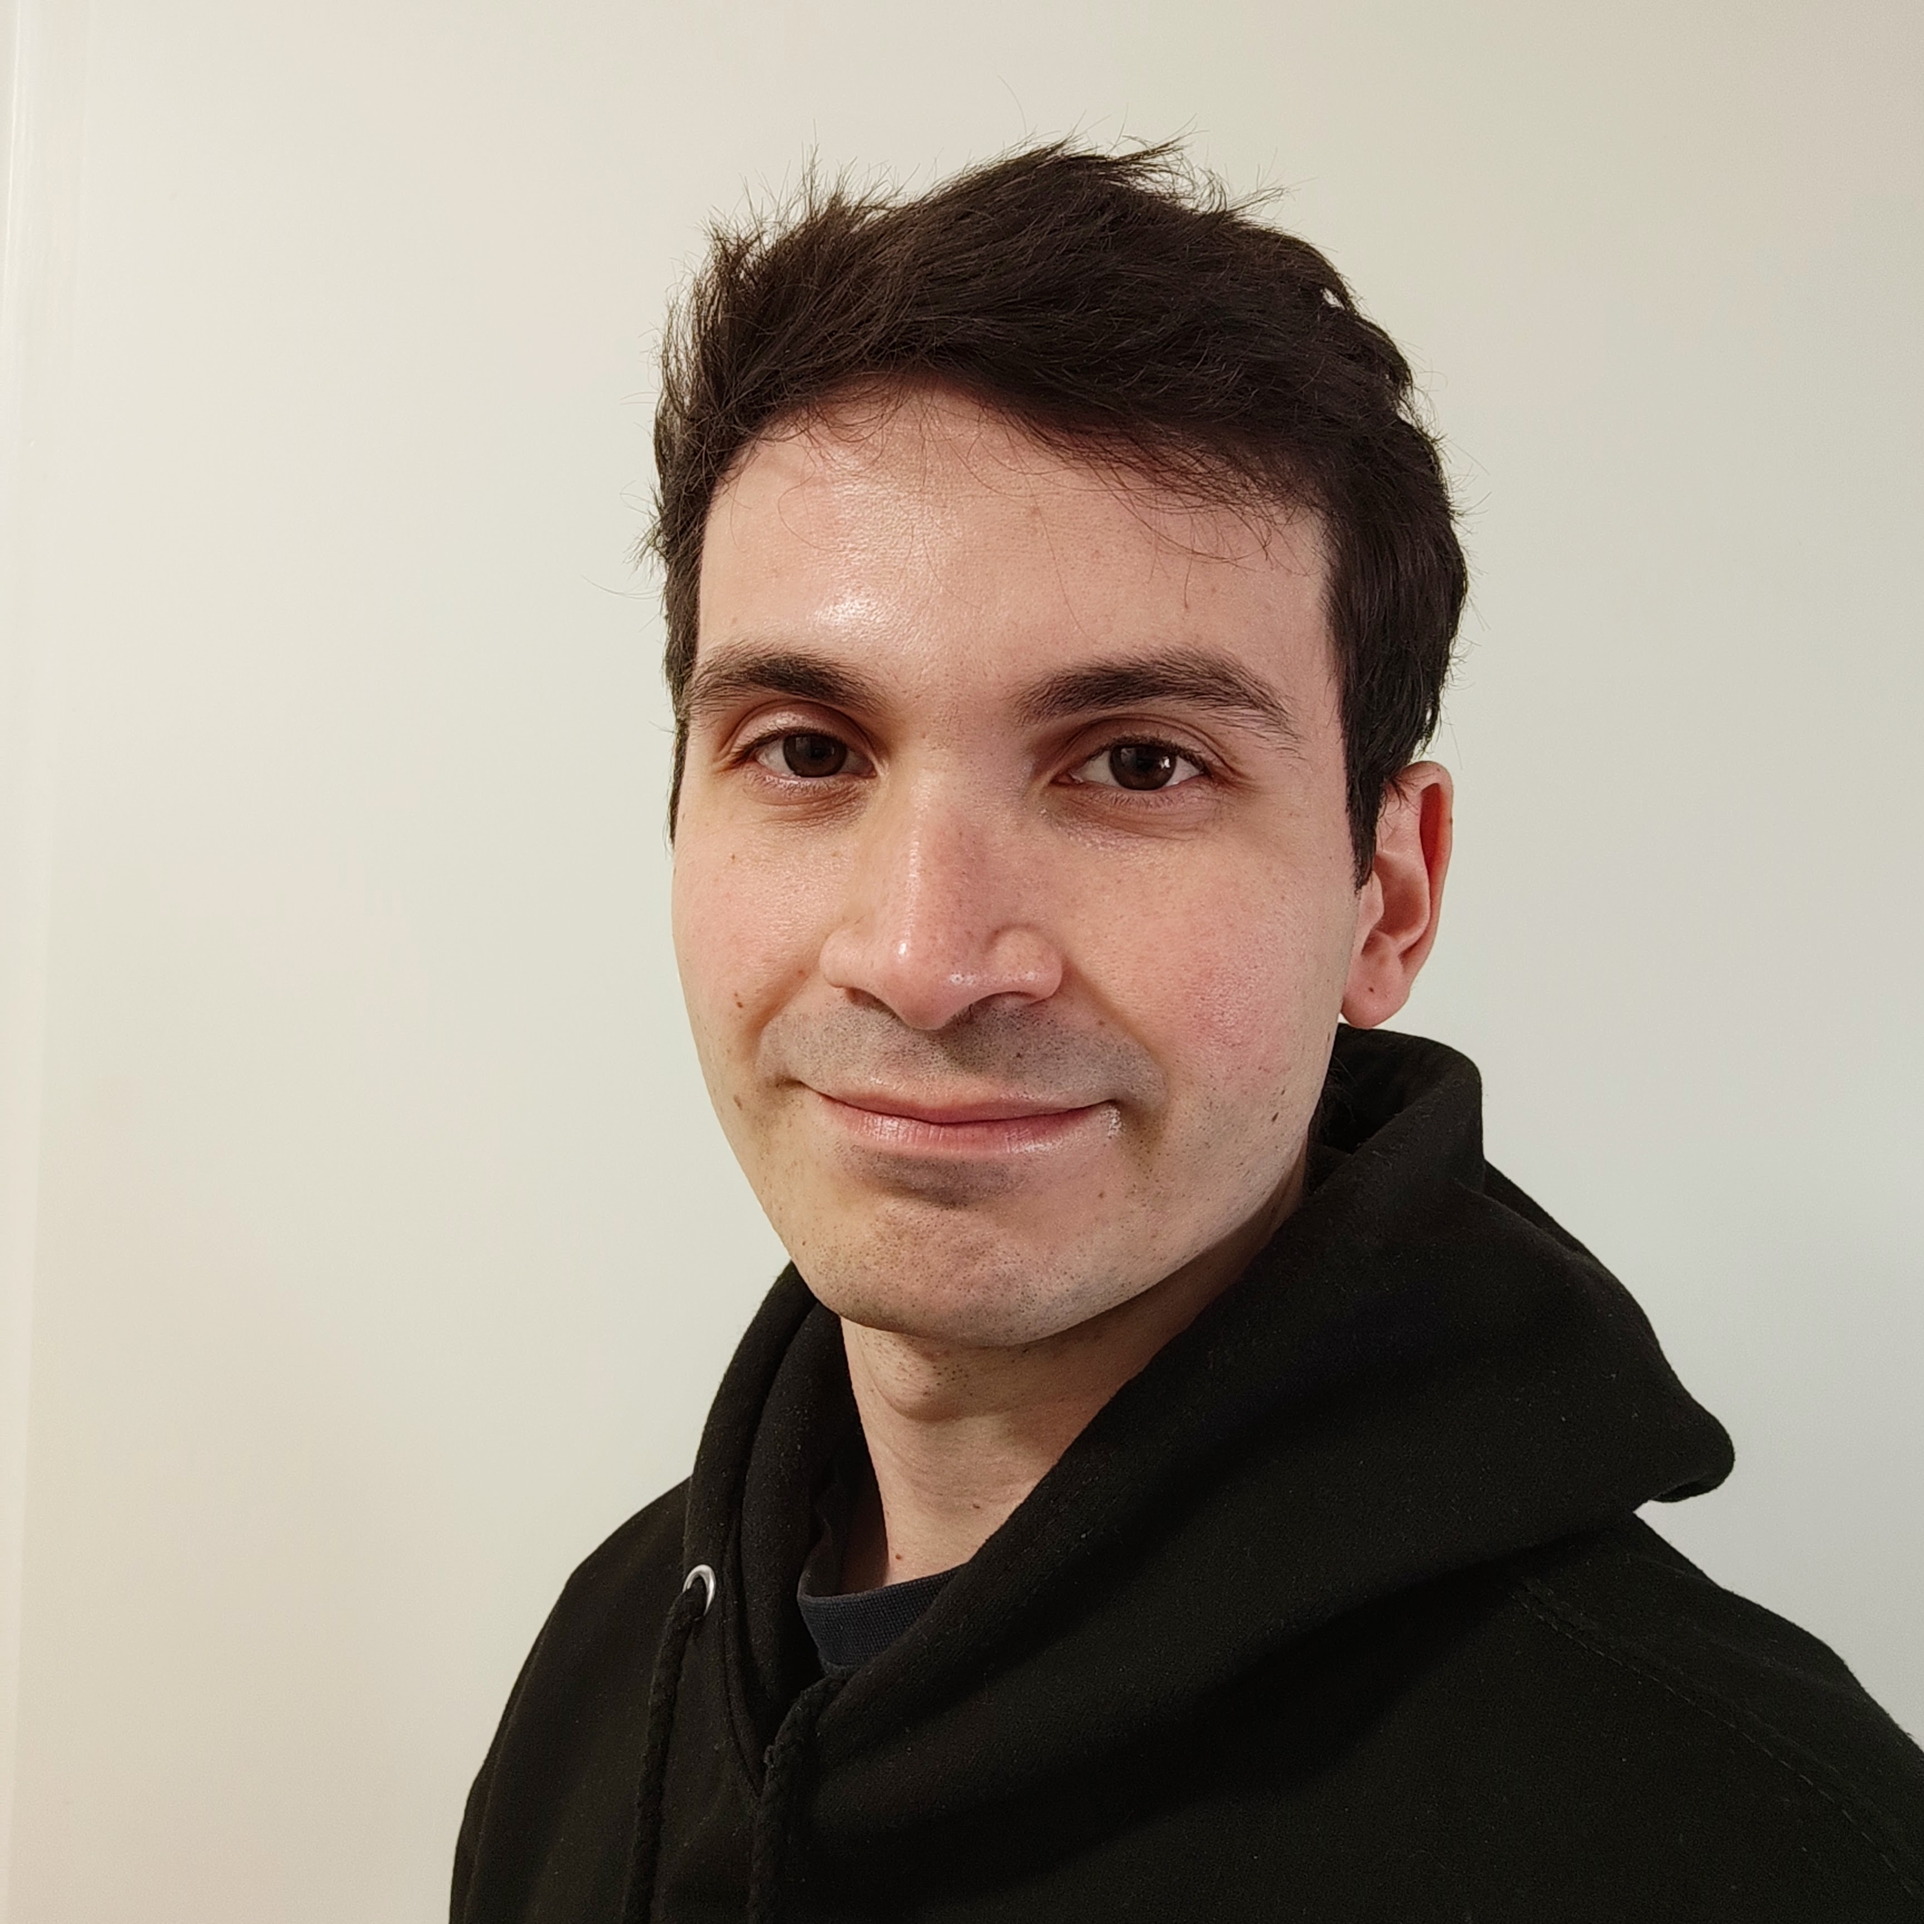
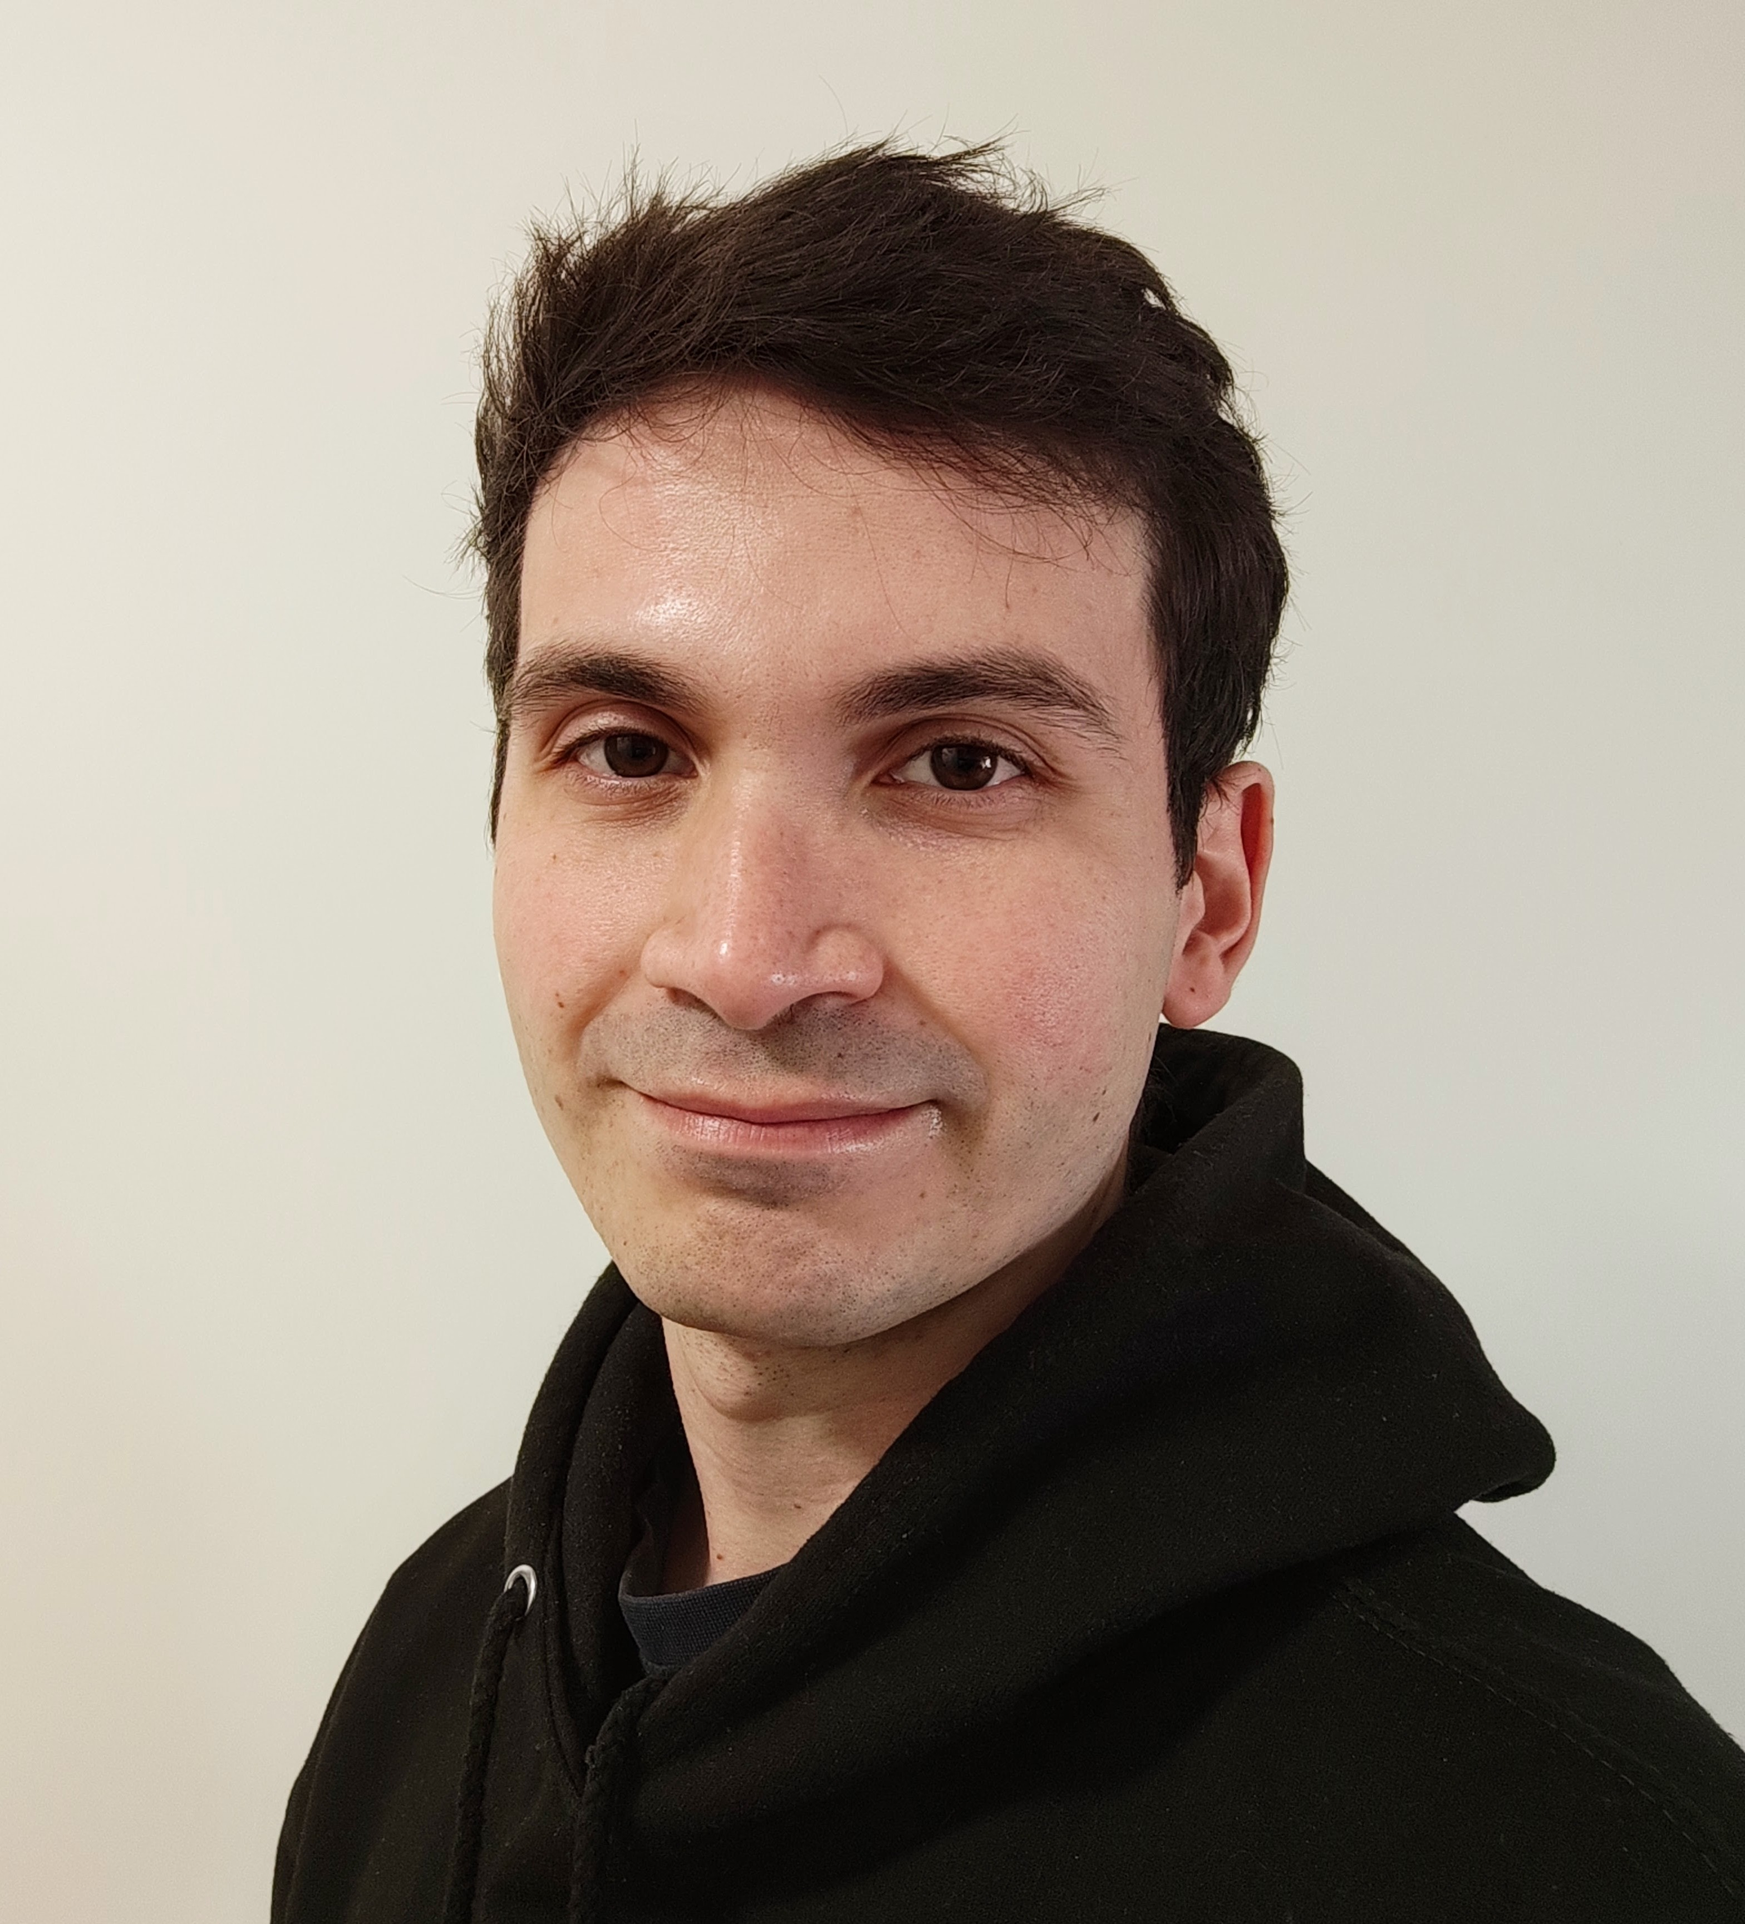
Fixing photo + Pubs tab
- Centered profile photo
- Highlighted my most important publication

diff --git a/publications.html b/publications.html
@@ -81,9 +81,14 @@
         <section id="publications" class="mb-20">
             <div class="space-y-6">
                 
-                <!-- Paper 1 -->
-                <div class="bg-white dark:bg-slate-900 p-6 rounded-xl shadow-sm border border-slate-200 dark:border-slate-800 transition hover:shadow-lg hover:border-blue-200 dark:hover:border-blue-700">
-                    <div class="flex flex-col md:flex-row justify-between md:items-start gap-4">
+                <!-- Paper 1 (Featured / Starred) -->
+                <div class="bg-white dark:bg-slate-900 p-6 rounded-xl shadow-md border-2 border-yellow-400 dark:border-yellow-600 transition hover:shadow-lg relative overflow-hidden">
+                    <!-- Star Badge -->
+                    <div class="absolute top-0 right-0 bg-yellow-400 dark:bg-yellow-600 text-yellow-900 dark:text-yellow-50 text-xs font-bold px-3 py-1 rounded-bl-lg">
+                        <i class="fas fa-star mr-1"></i> Selected
+                    </div>
+                    
+                    <div class="flex flex-col md:flex-row justify-between md:items-start gap-4 mt-2">
                         <div class="flex-1">
                             <span class="inline-block px-2 py-1 bg-blue-50 dark:bg-blue-900/50 text-blue-700 dark:text-blue-200 text-xs font-bold uppercase tracking-wide rounded mb-2">Psychological Methods (2024)</span>
                             <h3 class="text-lg font-bold text-slate-900 dark:text-white leading-tight">Mixture Multigroup Structural Equation Modeling: A Novel Method for Comparing Structural Relations Across Many Groups</h3>
@@ -103,7 +108,7 @@
                     </div>
                 </div>
 
-                <!-- Paper 2 -->
+                <!-- Paper 2 (2025) -->
                 <div class="bg-white dark:bg-slate-900 p-6 rounded-xl shadow-sm border border-slate-200 dark:border-slate-800 transition hover:shadow-lg hover:border-emerald-200 dark:hover:border-emerald-700">
                     <div class="flex flex-col md:flex-row justify-between md:items-start gap-4">
                         <div class="flex-1">
@@ -125,7 +130,26 @@
                     </div>
                 </div>
 
-                <!-- Paper 3 -->
+                <!-- Paper 3 (2025 - Moved Up) -->
+                <div class="bg-white dark:bg-slate-900 p-6 rounded-xl shadow-sm border border-slate-200 dark:border-slate-800 transition hover:shadow-lg hover:border-red-200 dark:hover:border-red-700">
+                    <div class="flex flex-col md:flex-row justify-between md:items-start gap-4">
+                        <div class="flex-1">
+                            <span class="inline-block px-2 py-1 bg-red-50 dark:bg-red-900/50 text-red-700 dark:text-red-200 text-xs font-bold uppercase tracking-wide rounded mb-2">Heart & Lung (2025)</span>
+                            <h3 class="text-lg font-bold text-slate-900 dark:text-white leading-tight">Modifiable Risk Factors and Motivation for Lifestyle Change of CVD Patients Starting Cardiac Rehabilitation: The BENEFIT Study</h3>
+                            <p class="text-slate-500 dark:text-slate-400 text-sm mt-2 italic">
+                                Breeman, L., ... Pérez Alonso, A. F., et al.
+                            </p>
+                        </div>
+                        <div class="md:w-32 flex-shrink-0">
+                            <a href="https://doi.org/10.1016/j.hrtlng.2024.09.008" target="_blank" class="flex items-center justify-center w-full px-4 py-2 bg-slate-100 dark:bg-slate-800 hover:bg-red-600 hover:text-white dark:hover:bg-red-600 text-slate-700 dark:text-slate-300 text-sm font-semibold rounded-lg transition group">
+                                <span>Read Paper</span>
+                                <i class="fas fa-external-link-alt ml-2 text-xs opacity-50 group-hover:opacity-100"></i>
+                            </a>
+                        </div>
+                    </div>
+                </div>
+
+                <!-- Paper 4 (2024) -->
                 <div class="bg-white dark:bg-slate-900 p-6 rounded-xl shadow-sm border border-slate-200 dark:border-slate-800 transition hover:shadow-lg hover:border-purple-200 dark:hover:border-purple-700">
                     <div class="flex flex-col md:flex-row justify-between md:items-start gap-4">
                         <div class="flex-1">
@@ -140,25 +164,6 @@
                         </div>
                         <div class="md:w-32 flex-shrink-0">
                             <a href="https://doi.org/10.1080/00273171.2024.2347960" target="_blank" class="flex items-center justify-center w-full px-4 py-2 bg-slate-100 dark:bg-slate-800 hover:bg-purple-600 hover:text-white dark:hover:bg-purple-600 text-slate-700 dark:text-slate-300 text-sm font-semibold rounded-lg transition group">
-                                <span>Read Paper</span>
-                                <i class="fas fa-external-link-alt ml-2 text-xs opacity-50 group-hover:opacity-100"></i>
-                            </a>
-                        </div>
-                    </div>
-                </div>
-
-                <!-- Paper 4 -->
-                <div class="bg-white dark:bg-slate-900 p-6 rounded-xl shadow-sm border border-slate-200 dark:border-slate-800 transition hover:shadow-lg hover:border-red-200 dark:hover:border-red-700">
-                    <div class="flex flex-col md:flex-row justify-between md:items-start gap-4">
-                        <div class="flex-1">
-                            <span class="inline-block px-2 py-1 bg-red-50 dark:bg-red-900/50 text-red-700 dark:text-red-200 text-xs font-bold uppercase tracking-wide rounded mb-2">Heart & Lung (2025)</span>
-                            <h3 class="text-lg font-bold text-slate-900 dark:text-white leading-tight">Modifiable Risk Factors and Motivation for Lifestyle Change of CVD Patients Starting Cardiac Rehabilitation: The BENEFIT Study</h3>
-                            <p class="text-slate-500 dark:text-slate-400 text-sm mt-2 italic">
-                                Breeman, L., ... Pérez Alonso, A. F., et al.
-                            </p>
-                        </div>
-                        <div class="md:w-32 flex-shrink-0">
-                            <a href="https://doi.org/10.1016/j.hrtlng.2024.09.008" target="_blank" class="flex items-center justify-center w-full px-4 py-2 bg-slate-100 dark:bg-slate-800 hover:bg-red-600 hover:text-white dark:hover:bg-red-600 text-slate-700 dark:text-slate-300 text-sm font-semibold rounded-lg transition group">
                                 <span>Read Paper</span>
                                 <i class="fas fa-external-link-alt ml-2 text-xs opacity-50 group-hover:opacity-100"></i>
                             </a>
